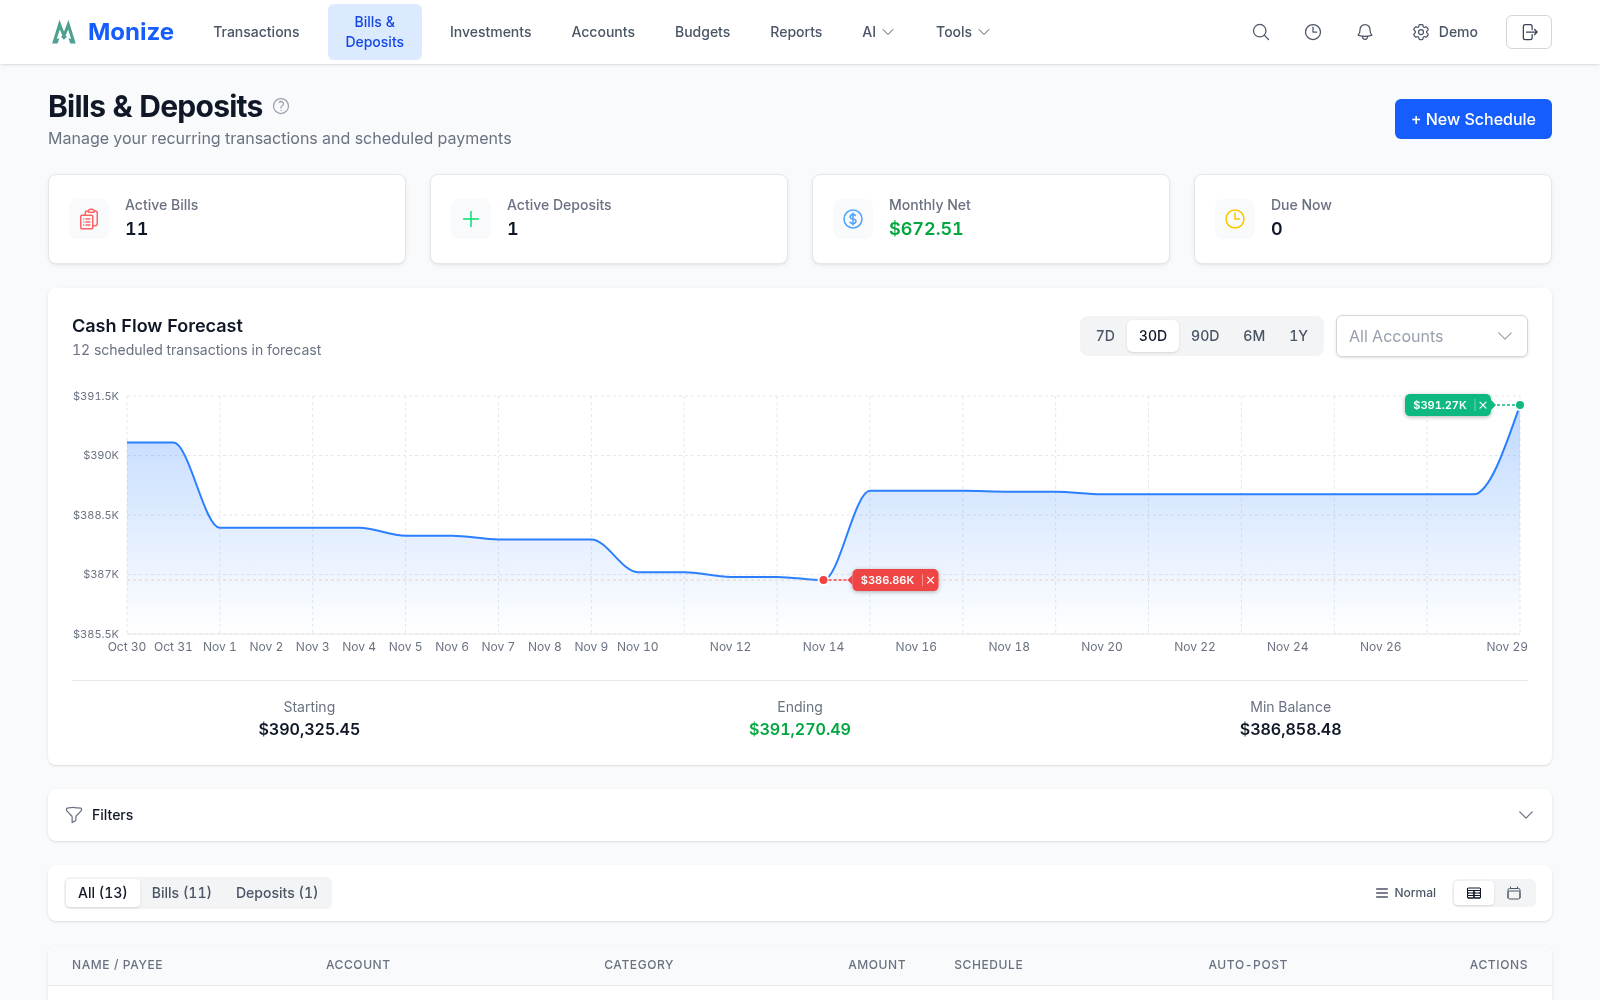
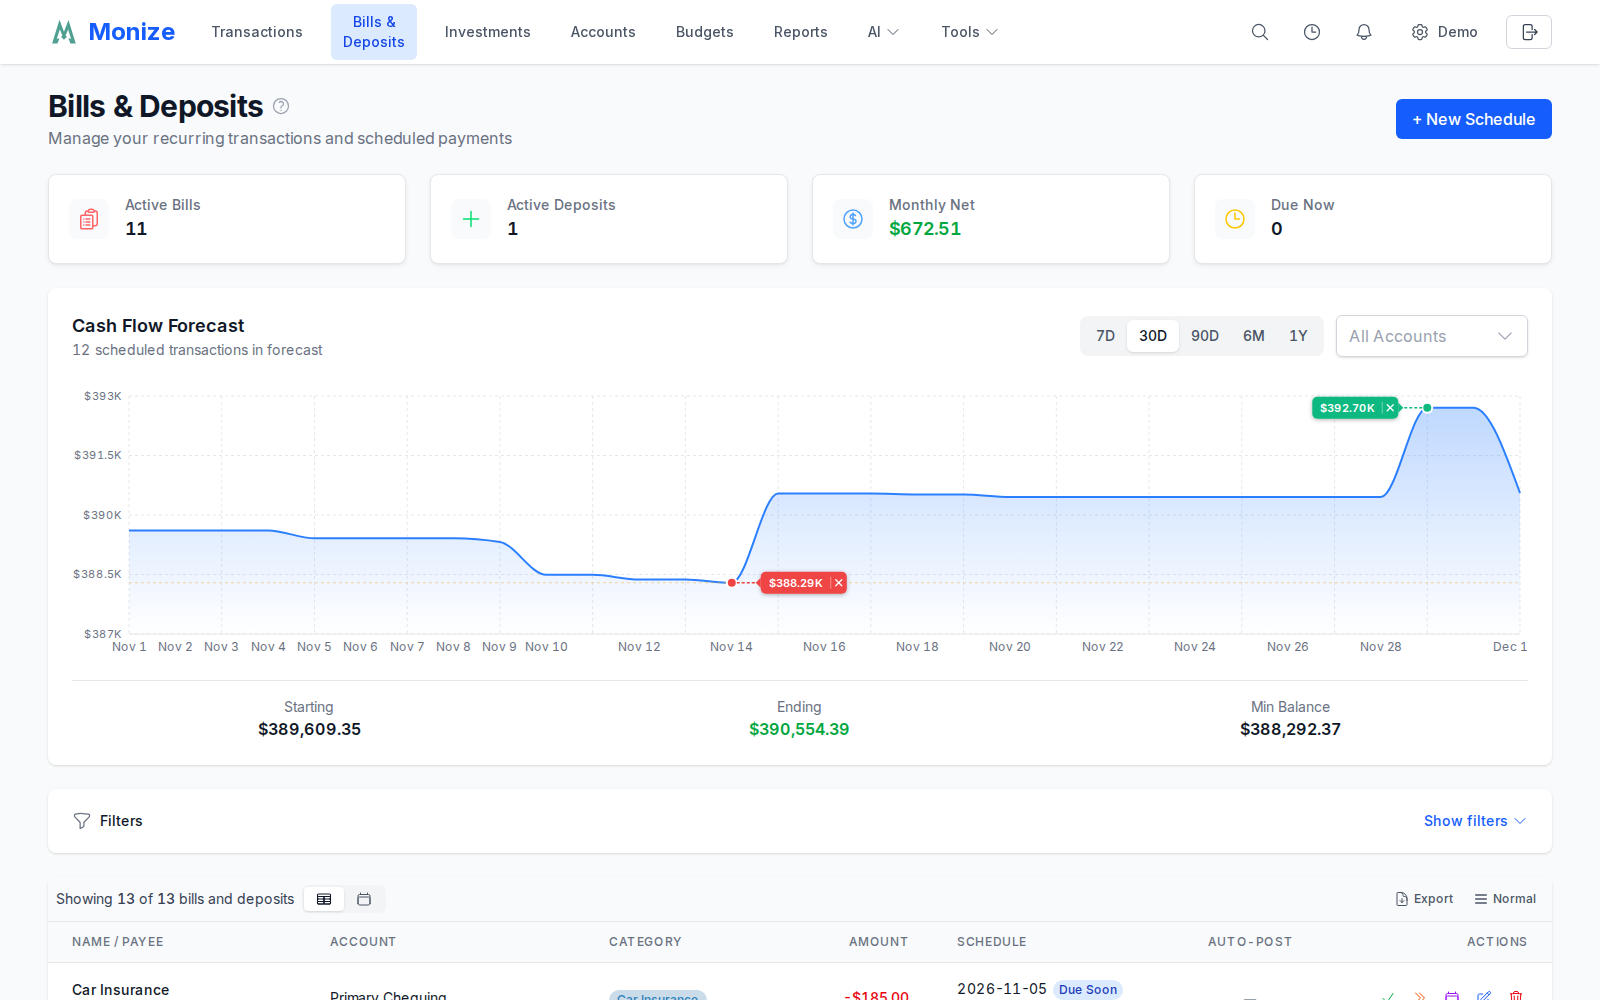
docs(website): retake the Bills & Deposits page and list pictures
The folded Filters panel and the new bar above the table, in both themes,
plus the README's phone picture of the page.

diff --git a/website/docs/bills-and-deposits.html b/website/docs/bills-and-deposits.html
@@ -30,7 +30,7 @@
 <h2 id="bills-list">Bills List<a class="hlink" href="#bills-list" aria-label="Link to this section">#</a></h2>
 <p>Below the forecast, the list shows all scheduled transactions with:</p>
 <div class="table-wrap"><table><thead><tr><th>Column</th><th>Description</th></tr></thead><tbody><tr><td><strong>Name / Payee</strong></td><td>What the schedule is called and who it is with</td></tr><tr><td><strong>Account</strong></td><td>The account involved</td></tr><tr><td><strong>Category</strong></td><td>The category, the transfer&#x27;s destination, or a <strong>Split</strong> badge</td></tr><tr><td><strong>Amount</strong></td><td>The amount of the next occurrence</td></tr><tr><td><strong>Schedule</strong></td><td>The next due date with an <strong>Overdue</strong>, <strong>Due Today</strong>, or <strong>Due Soon</strong> (within a week) badge, the frequency, and how many occurrences are left</td></tr><tr><td><strong>Auto-Post</strong></td><td><strong>On</strong> when the schedule posts itself</td></tr><tr><td><strong>Actions</strong></td><td><strong>Post Transaction</strong>, <strong>Skip Occurrence</strong>, <strong>Edit Occurrence</strong>, <strong>Edit Schedule</strong>, and <strong>Delete</strong></td></tr></tbody></table></div>
-<figure><img src="/docs/images/bills-list.png" alt="The list of scheduled transactions" width="1504" height="941" loading="lazy" decoding="async" class="shot-dark"/><img src="/docs/images/bills-list.light.png" alt="The list of scheduled transactions" width="1504" height="941" loading="lazy" decoding="async" class="shot-light"/><figcaption>The list of scheduled transactions</figcaption></figure>
+<figure><img src="/docs/images/bills-list.png" alt="The list of scheduled transactions" width="1504" height="984" loading="lazy" decoding="async" class="shot-dark"/><img src="/docs/images/bills-list.light.png" alt="The list of scheduled transactions" width="1504" height="984" loading="lazy" decoding="async" class="shot-light"/><figcaption>The list of scheduled transactions</figcaption></figure>
 <p>A <strong>modified</strong> badge counts the upcoming occurrences you have changed (see <a href="#overriding-individual-occurrences">Overriding Individual Occurrences</a>), and paused schedules are marked inactive.</p>
 <h3 id="filtering">Filtering<a class="hlink" href="#filtering" aria-label="Link to this section">#</a></h3>
 <p><strong>Show filters</strong> opens the filter panel and <strong>Hide</strong> folds it away again. At the top of the panel, the <strong>All</strong>, <strong>Bills</strong>, and <strong>Deposits</strong> buttons narrow the list to one kind of schedule; below them you can search by <strong>Name</strong> and narrow by <strong>Payees</strong>, <strong>Accounts</strong>, and <strong>Categories</strong>. While the panel is folded, its header counts the filters in use and lists each one as a chip you can remove, and <strong>Clear</strong> removes them all.</p>
